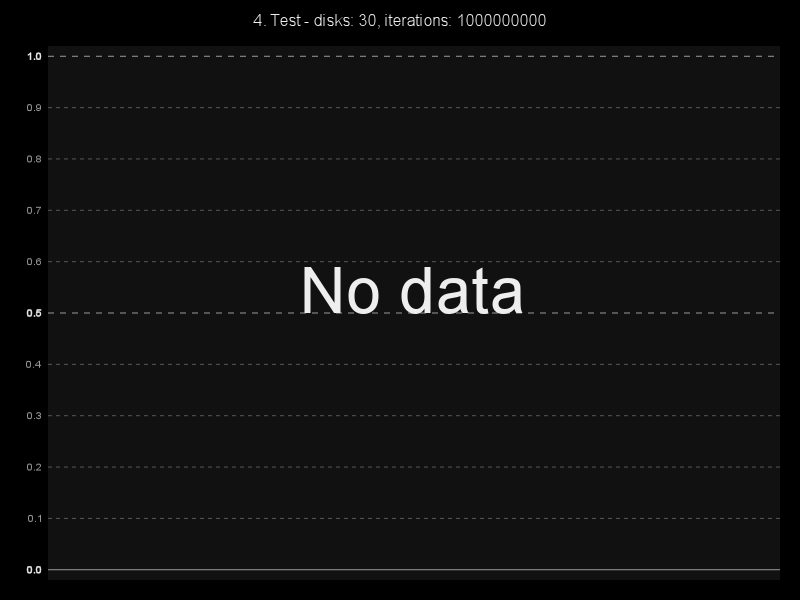
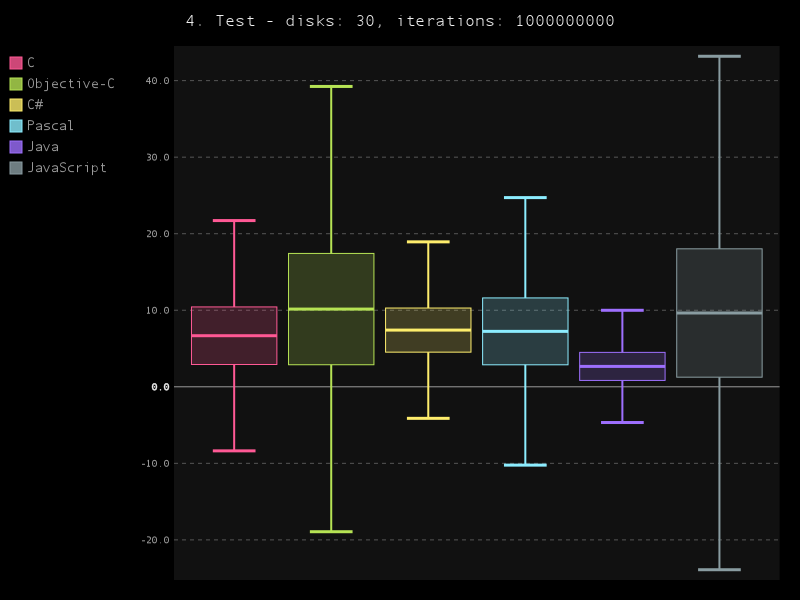
Complete tests

diff --git a/evaluator/config.py b/evaluator/config.py
@@ -16,12 +16,11 @@ def safe_path(path):
         return path
 
 EVALUATIONS = 5
-TIMEOUT = 1
-TESTS = [(15, 6, 100000),
+TIMEOUT = 120
+TESTS = [(15, 6, 1000000),
          (20, 6, 10000000),
          (25, 6, 100000000),
-         (30, 6, 1000000000),
-         (32, 6, 4294967295)]
+         (30, 6, 1000000000)]
 
 class Language(object):
     NAME = None
@@ -34,19 +33,19 @@ class Language(object):
     
 class CLanguage(Language):
     NAME = 'C'
-    PROGRAM = safe_path('C:\\Software\\MinGW\\bin\\gcc.exe')
+    PROGRAM = safe_path('cc')
     VERSION = '%s --version' % PROGRAM
-    COMPILE = '%s -Wall sources/c_test.c -o c_test.exe' % PROGRAM 
-    RUN = os.path.join('.', 'c_test.exe')
-    CLEAN = ['c_test.exe']
+    COMPILE = '%s -Wall sources/c_test.c -o c_test' % PROGRAM 
+    RUN = './c_test'
+    CLEAN = ['c_test']
     ORDER = 1
 
 class ObjCLanguage(Language):
     NAME = 'Objective-C'
-    PROGRAM = safe_path('ggcc')
+    PROGRAM = safe_path('gcc')
     VERSION = '%s --version' % PROGRAM
     COMPILE = '%s -o objc_test -Wall -std=c99 sources/objc_test.m -framework Foundation -lobjc' % PROGRAM 
-    RUN = os.path.join('.', 'objc_test')
+    RUN = './objc_test'
     CLEAN = ['objc_test']
     ORDER = 2
 
@@ -61,11 +60,11 @@ class CSLanguage(Language):
 
 class PascalLanguage(Language):
     NAME = 'Pascal'
-    PROGRAM = safe_path('C:\\Software\\FPC\\2.6.4\\bin\\i386-win32\\fpc.exe')
+    PROGRAM = safe_path('fpc')
     VERSION = '%s -h' % PROGRAM
     COMPILE = '%s sources/pascal_test.pas' % PROGRAM 
-    RUN = os.path.join('sources', 'pascal_test.exe')
-    CLEAN = ['sources/pascal_test.exe', 'sources/pascal_test.o']
+    RUN = 'sources/pascal_test'
+    CLEAN = ['sources/pascal_test', 'sources/pascal_test.o']
     ORDER = 4
 
 class JavaLanguage(Language):

diff --git a/evaluator/docu_generator.py b/evaluator/docu_generator.py
@@ -5,7 +5,7 @@ Created on 24.6.2014
 @author: Morzeux
 '''
 
-import pygal, cairosvg
+import pygal
 import os, sys
 from evaluator import config as C
 

diff --git a/README.md b/README.md
@@ -74,42 +74,51 @@ Bash and where I would use Swift in future.
 
 | Info |  |
 | :-----: | :-----: |
-| Operating System | Windows-7-6.1.7601-SP1 |
-| Processor | Intel64 Family 6 Model 37 Stepping 5, GenuineIntel |
-| Total memory | 3.866GB |
+| Operating System | Darwin-13.2.0-x86_64-i386-64bit |
+| Processor | i386 |
+| Total memory | 2.000GB |
 
 ### Compilers & Interpreters
 
 | Language | Available Version |
 | :-----: | :-----: |
-| C | gcc.exe (GCC) 4.8.1 |
-| Objective-C | Not available |
-| C# | Not available |
-| Pascal | Free Pascal Compiler version 2.6.4 [2014/03/06] for i386 |
+| C | Apple LLVM version 5.1 (clang-503.0.40) (based on LLVM 3.4svn) |
+| Objective-C | Apple LLVM version 5.1 (clang-503.0.40) (based on LLVM 3.4svn) |
+| C# | Mono C# compiler version 3.4.0.0 |
+| Pascal | Free Pascal Compiler version 2.6.4 [2014/02/26] for i386 |
 | Java | javac 1.8.0_05 |
-| JavaScript (node.js) | Not available |
-| PHP | Not available |
-| Ruby | ruby 2.0.0p451 (2014-02-24) [i386-mingw32] |
-| Python | Not available |
-| Perl | Not available |
-| Bash | Not available |
-| Prolog | Not available |
-| Common Lisp | Not available |
+| JavaScript (node.js) | v0.10.29 |
+| PHP | PHP 5.5.13 (cli) (built |  May 30 2014 10 | 43 | 29) |
+| Ruby | ruby 2.0.0p451 (2014-02-24 revision 45167) [universal.x86_64-darwin13] |
+| Python | Python 3.4.1 |
+| Perl | This is perl 5, version 16, subversion 3 (v5.16.3) built for darwin-thread-multi-2level |
+| Bash | GNU bash, version 3.2.51(1)-release (x86_64-apple-darwin13) |
+| Prolog | SWI-Prolog version 6.6.6 for x86_64-darwin13.1.0 |
+| Common Lisp | GNU CLISP 2.49 (2010-07-07) (built 3612292961) (memory 3612293171) |
 
 ### Performance Tests
 
-In performance tests, scripts were executed 5 times with 1 seconds timeout.
+In performance tests, scripts were executed 5 times with 120 seconds timeout.
 After this timeout script was killed. After executions, their times average
 value were computed together with standard deviation. This values was used
 to construct tables and graphs.
-#### Test 1. - Discs 15, Iterations 100000
+#### Test 1. - Discs 15, Iterations 1000000
     
 | Lang | Avg. cycles | Std. cycles | Avg. hanoi | Std. hanoi |
 | :-----: | :-----: | :-----: | :-----: | :-----: |
-| C | 0.000s | 0.00% | 0.000s | 0.00% |
-| Pascal | 0.000s | 200.00% | 0.001s | 81.65% |
-| Java | 0.001s | 50.00% | 0.001s | 50.00% |
-| Ruby | 0.004s | 17.82% | 0.008s | 23.33% |
+| C | 0.003s | 14.41% | 0.000s | 0.00% |
+| Objective-C | 0.003s | 0.00% | 0.001s | 0.00% |
+| C# | 0.004s | 0.00% | 0.000s | 0.00% |
+| Pascal | 0.002s | 22.22% | 0.000s | 200.00% |
+| Java | 0.003s | 23.53% | 0.002s | 30.62% |
+| JavaScript | 0.002s | 30.62% | 0.002s | 22.22% |
+| PHP | 0.155s | 1.66% | 0.122s | 1.47% |
+| Ruby | 0.028s | 1.44% | 0.008s | 0.00% |
+| Python | 0.123s | 0.32% | 0.022s | 0.00% |
+| Perl | 0.114s | 1.70% | 0.052s | 0.95% |
+| Bash | 26.226s | 2.24% | 4.284s | 1.50% |
+| Prolog | 0.052s | 0.95% | 0.006s | 18.26% |
+| Common Lisp | 1.345s | 1.48% | 0.120s | 4.18% |
 
 ![Bar graph results 1](results/bar_graph1.png)
 
@@ -119,10 +128,19 @@ to construct tables and graphs.
     
 | Lang | Avg. cycles | Std. cycles | Avg. hanoi | Std. hanoi |
 | :-----: | :-----: | :-----: | :-----: | :-----: |
-| C | 0.000s | 0.00% | 0.000s | 0.00% |
-| Pascal | 0.028s | 3.47% | 0.011s | 11.32% |
-| Java | 0.017s | 4.82% | 0.005s | 14.81% |
-| Ruby | 0.343s | 4.32% | 0.237s | 1.74% |
+| C | 0.029s | 2.60% | 0.010s | 0.00% |
+| Objective-C | 0.029s | 2.60% | 0.017s | 4.35% |
+| C# | 0.046s | 2.12% | 0.010s | 9.61% |
+| Pascal | 0.031s | 17.12% | 0.012s | 3.39% |
+| Java | 0.011s | 3.70% | 0.006s | 0.00% |
+| JavaScript | 0.013s | 3.12% | 0.019s | 3.90% |
+| PHP | 1.605s | 2.14% | 4.058s | 2.19% |
+| Ruby | 0.283s | 1.59% | 0.252s | 4.62% |
+| Python | 1.261s | 1.48% | 0.724s | 1.19% |
+| Perl | 1.155s | 1.19% | 1.671s | 2.43% |
+| Bash | Dead | Dead | Dead | Dead |
+| Prolog | 0.517s | 1.58% | 0.601s | 1.20% |
+| Common Lisp | 13.455s | 1.74% | 3.776s | 0.96% |
 
 ![Bar graph results 2](results/bar_graph2.png)
 
@@ -132,10 +150,19 @@ to construct tables and graphs.
     
 | Lang | Avg. cycles | Std. cycles | Avg. hanoi | Std. hanoi |
 | :-----: | :-----: | :-----: | :-----: | :-----: |
-| C | 0.000s | 0.00% | 0.000s | 0.00% |
-| Pascal | 0.288s | 0.56% | 0.341s | 3.12% |
-| Java | 0.171s | 7.46% | 0.168s | 1.16% |
-| Ruby | Dead | Dead | Dead | Dead |
+| C | 0.288s | 1.13% | 0.319s | 0.70% |
+| Objective-C | 0.286s | 0.49% | 0.547s | 2.43% |
+| C# | 0.456s | 2.70% | 0.320s | 1.51% |
+| Pascal | 0.288s | 3.30% | 0.354s | 1.38% |
+| Java | 0.085s | 1.15% | 0.157s | 0.51% |
+| JavaScript | 0.126s | 2.93% | 0.573s | 5.38% |
+| PHP | Dead | Dead | Dead | Dead |
+| Ruby | 2.817s | 0.98% | 7.905s | 1.22% |
+| Python | 12.527s | 0.45% | 22.872s | 0.64% |
+| Perl | 11.426s | 0.43% | 53.738s | 1.41% |
+| Bash | Dead | Dead | Dead | Dead |
+| Prolog | 5.159s | 0.44% | 20.209s | 1.29% |
+| Common Lisp | Dead | Dead | Dead | Dead |
 
 ![Bar graph results 3](results/bar_graph3.png)
 
@@ -145,25 +172,21 @@ to construct tables and graphs.
     
 | Lang | Avg. cycles | Std. cycles | Avg. hanoi | Std. hanoi |
 | :-----: | :-----: | :-----: | :-----: | :-----: |
-| C | Dead | Dead | Dead | Dead |
-| Pascal | Dead | Dead | Dead | Dead |
-| Java | Dead | Dead | Dead | Dead |
+| C | 2.913s | 1.70% | 10.434s | 1.50% |
+| Objective-C | 2.881s | 0.70% | 17.424s | 0.85% |
+| C# | 4.526s | 0.05% | 10.290s | 0.19% |
+| Pascal | 2.873s | 0.81% | 11.610s | 0.57% |
+| Java | 0.831s | 1.92% | 4.497s | 0.65% |
+| JavaScript | 1.256s | 1.53% | 18.026s | 1.38% |
+| PHP | Dead | Dead | Dead | Dead |
 | Ruby | Dead | Dead | Dead | Dead |
+| Python | Dead | Dead | Dead | Dead |
+| Perl | Dead | Dead | Dead | Dead |
+| Bash | Dead | Dead | Dead | Dead |
+| Prolog | Dead | Dead | Dead | Dead |
+| Common Lisp | Dead | Dead | Dead | Dead |
 
 ![Bar graph results 4](results/bar_graph4.png)
 
 ![Box graph results 4](results/box_graph4.png)
-
-#### Test 5. - Discs 32, Iterations 4294967295
-    
-| Lang | Avg. cycles | Std. cycles | Avg. hanoi | Std. hanoi |
-| :-----: | :-----: | :-----: | :-----: | :-----: |
-| C | Dead | Dead | Dead | Dead |
-| Pascal | Dead | Dead | Dead | Dead |
-| Java | Dead | Dead | Dead | Dead |
-| Ruby | Dead | Dead | Dead | Dead |
-
-![Bar graph results 5](results/bar_graph5.png)
-
-![Box graph results 5](results/box_graph5.png)
 
